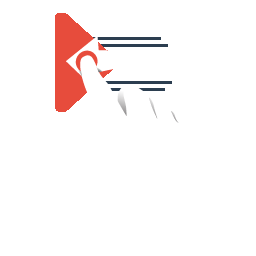
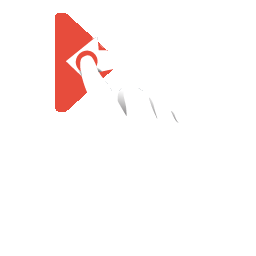
First commit

Changed region(s): [[0.375, 0.125, 0.6562, 0.1875], [0.4062, 0.3125, 0.6875, 0.375]]

diff --git a/Swipe/GameScene.swift b/Swipe/GameScene.swift
@@ -17,12 +17,11 @@ class GameScene: SKScene {
     var highscore = NSUserDefaults.standardUserDefaults().integerForKey("highscore")
     var scoreLabel:SKLabelNode!
     var highscoreLabel:SKLabelNode!
-    var timerLabel:SKLabelNode!
-    var tapToStart:SKLabelNode!
-    var count = 5
+    let tapToStart = SKLabelNode(fontNamed: "DIN Condensed")
+    let instruction1 = SKSpriteNode(imageNamed: "WhiteSwipe.png")
+    let instruction2 = SKSpriteNode(imageNamed: "RedSwipe.png")
     var arrowObject: NSMovingArrow!
     var gameOver = false
-    var timer: NSTimer!
     
     
     func endGame(){
@@ -91,12 +90,6 @@ class GameScene: SKScene {
     
     func setScore(){
         currentScore += 1
-        
-        count = calcCountForScore()
-        timer.invalidate()
-        timer = NSTimer.scheduledTimerWithTimeInterval(0.5, target: self, selector: #selector(GameScene.countDown), userInfo: nil, repeats: true)
-        timerLabel.text = "\(getCount())"
-        
         let userDefaults = NSUserDefaults.standardUserDefaults()
         if let hs = userDefaults.valueForKey("highscore") {
             if(currentScore > hs as! Int){
@@ -113,26 +106,18 @@ class GameScene: SKScene {
         highscoreLabel.text = "\(highscore)"
     }
     
-    func countDown(){
-        if(count > 0) {
-            count -= 1
-            timerLabel.text = getCount()
-        } else {
-            endGame()
-        }
-    }
     
-    func calcCountForScore() -> Int{
+    func calcSpeedForScore() -> Double{
         if(currentScore < 10){
-            return 5
+            return 3.5
+        } else if(currentScore < 25) {
+            return 2.5
         } else if(currentScore < 50) {
-            return 4
+            return 2.0
         } else if(currentScore < 100) {
-            return 3
-        } else if(currentScore < 200) {
-            return 2
+            return 1.5
         } else {
-            return 1
+            return 1.0
         }
     }
     
@@ -183,29 +168,25 @@ class GameScene: SKScene {
         
         arrowObject.position = startPoint
         addChild(arrowObject)
-        arrowObject.start(dirNum, maxX: Float(self.frame.size.width), maxY: Float(self.frame.size.height))
+        arrowObject.start(dirNum, maxX: self.frame.size.width, maxY: self.frame.size.height, duration: calcSpeedForScore())
     }
     
-    func getCount() -> String{
-        var toReturn = ""
-        for _ in (0..<count) {
-            toReturn += "|"
-        }
-        return toReturn
-    }
     
     override func didMoveToView(view: SKView) {
+        instruction1.position = CGPointMake((view.center.x / 2), 150)
+        instruction1.size.width = 100
+        instruction1.size.height = 100
+        addChild(instruction1)
+        
+        instruction2.position = CGPointMake(view.center.x + (view.center.x / 2), 150)
+        instruction2.size.width = 100
+        instruction2.size.height = 100
+        addChild(instruction2)
         
         //let appDomain = NSBundle.mainBundle().bundleIdentifier!
         //NSUserDefaults.standardUserDefaults().removePersistentDomainForName(appDomain)
         
         backgroundColor = UIColor(red: 44/255.0, green: 62/255.0, blue: 80/255.0, alpha: 1)
-        
-        timerLabel = SKLabelNode(fontNamed: "DIN Condensed")
-        timerLabel.text = "\(getCount())"
-        timerLabel.fontSize = 30
-        timerLabel.position = CGPointMake(view.center.x, self.frame.size.height - 40)
-        addChild(timerLabel)
         
         scoreLabel = SKLabelNode(fontNamed: "DIN Condensed")
         scoreLabel.text = "\(currentScore)"
@@ -221,10 +202,10 @@ class GameScene: SKScene {
         
         addChild(highscoreLabel)
 
-        tapToStart = SKLabelNode(fontNamed: "DIN Condensed")
+        
         tapToStart.text = "Tap to start"
         tapToStart.fontSize = 40
-        tapToStart.position = CGPointMake(view.center.x, view.center.y)
+        tapToStart.position = CGPointMake(view.center.x, view.center.y + 50)
         tapToStart.name = "taptostart"
         addChild(tapToStart)
 
@@ -256,8 +237,17 @@ class GameScene: SKScene {
        /* Called when a touch begins */
         if(tapToStart.inParentHierarchy(self)){
             tapToStart.removeFromParent()
+            instruction1.removeFromParent()
+            instruction2.removeFromParent()
             newArrow()
-            timer = NSTimer.scheduledTimerWithTimeInterval(0.5, target: self, selector: #selector(GameScene.countDown), userInfo: nil, repeats: true)
+            _ =  NSTimer.scheduledTimerWithTimeInterval(0.1, target: self, selector: #selector(GameScene.checkCollision), userInfo: nil, repeats: true)
+            
+        }
+    }
+    
+    func checkCollision(){
+        if(arrowObject.hasCollided(self.frame.size.width, maxY: self.frame.size.height)){
+            endGame()
         }
     }
    

diff --git a/Swipe/NSMovingArrow.swift b/Swipe/NSMovingArrow.swift
@@ -24,32 +24,34 @@ class NSMovingArrow: SKSpriteNode {
         fatalError("init(coder:) has not been implemented")
     }
     
+    func hasCollided(maxX: CGFloat, maxY: CGFloat ) -> Bool {
+        return (self.position.x < -20 || self.position.y < -20 || self.position.x > (maxX+20) || self.position.y > (maxY+20))
+    }
     
-    
-    func start(direction: Int, maxX: Float, maxY: Float){
+    func start(direction: Int, maxX: CGFloat, maxY: CGFloat, duration: Double) {
         var moveDir: SKAction
         var resetPosition: SKAction
         
         switch(direction){
         case 0: //Up
-            moveDir = SKAction.moveToY(CGFloat(maxY+30) - self.position.y, duration: 3.0)
-            resetPosition = SKAction.moveToY(-10, duration: 0)
+            moveDir = SKAction.moveToY((maxY+30) - self.position.y, duration: duration)
+            resetPosition = SKAction.moveToY(-50, duration: 0)
             break;
         case 1: //Right
-            moveDir = SKAction.moveToX(CGFloat(maxX+30) - self.position.x, duration: 1.5)
-            resetPosition = SKAction.moveToX(-30, duration: 0)
+            moveDir = SKAction.moveToX((maxX+30) - self.position.x, duration: duration/1.7)
+            resetPosition = SKAction.moveToX(-50, duration: 0)
             break;
         case 2: //Left
-            moveDir = SKAction.moveToX(-CGFloat(maxX+30) + self.position.x, duration: 1.5)
-            resetPosition = SKAction.moveToX(CGFloat(maxX)+30, duration: 0)
+            moveDir = SKAction.moveToX(-(maxX+30) + self.position.x, duration: duration/1.7)
+            resetPosition = SKAction.moveToX(CGFloat(maxX)+50, duration: 0)
             break;
         case 3: //Down
-            moveDir = SKAction.moveToY(-CGFloat(maxY+30) + self.position.y, duration: 3.0)
-            resetPosition = SKAction.moveToY(CGFloat(maxY)+10, duration: 0)
+            moveDir = SKAction.moveToY(-(maxY+30) + self.position.y, duration: duration)
+            resetPosition = SKAction.moveToY(CGFloat(maxY)+50, duration: 0)
             break;
         default: //Right
-            moveDir = SKAction.moveToX(CGFloat(maxX+30) - self.position.x, duration: 1.5)
-            resetPosition = SKAction.moveToX(-10, duration: 0)
+            moveDir = SKAction.moveToX((maxX+30) - self.position.x, duration: duration/1.7)
+            resetPosition = SKAction.moveToX(-50, duration: 0)
             break;
         }
         
@@ -57,5 +59,4 @@ class NSMovingArrow: SKSpriteNode {
         let moveSequence = SKAction.sequence([moveDir, resetPosition])
         runAction(SKAction.repeatActionForever(moveSequence))
     }
-    
 }
